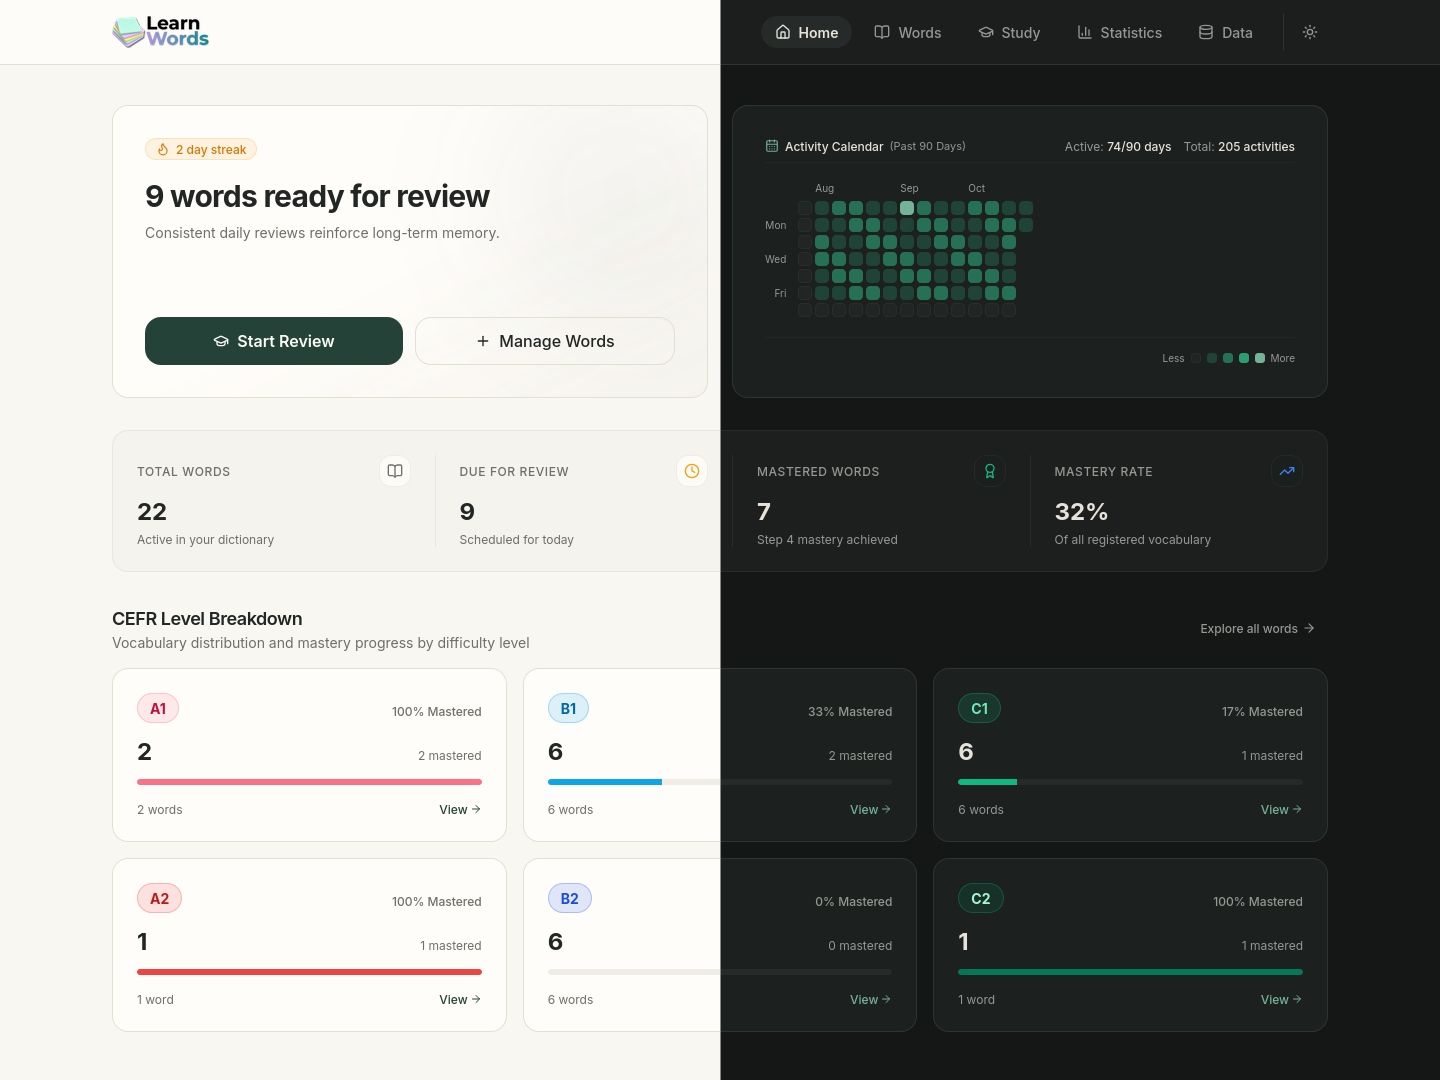
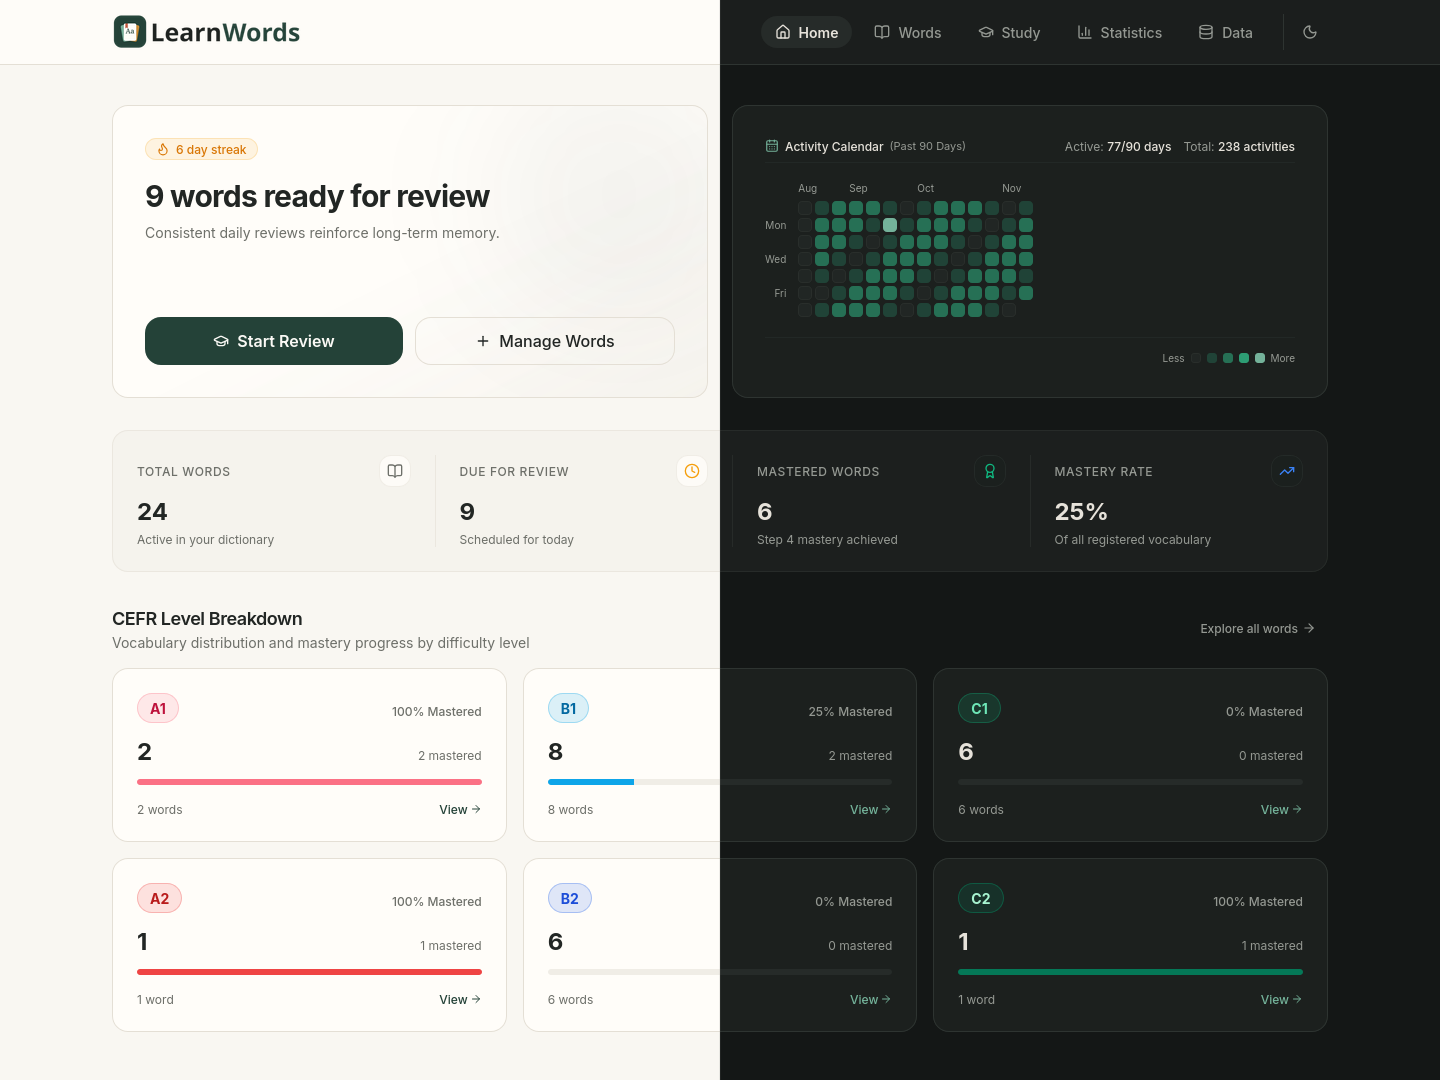
docs(readme): overhaul README with Concept 1B branding, desktop/mobile showcases, and APK guide

diff --git a/README.md b/README.md
@@ -1,89 +1,166 @@
-# LearnWords
+<p align="center">
+  <picture>
+    <source media="(prefers-color-scheme: dark)" srcset="./src/assets/logo-dark.png" width="380">
+    <img src="./src/assets/logo.png" alt="LearnWords Logo" width="380">
+  </picture>
+</p>
 
-LearnWords is a local-first, distraction-free English vocabulary acquisition platform built with spaced repetition system (SRS) algorithms, context-driven sentence translation practice, and cognitive ergonomics.
+<p align="center">
+  A calm, local-first vocabulary learning platform for Desktop and Android, engineered with spaced repetition, contextual sentence translation, and cognitive ergonomics.
+</p>
 
-The platform is designed to provide a calm, tactile, and highly effective learning environment that respects user privacy and data ownership. It operates entirely offline with zero third-party cloud dependencies.
+<p align="center">
+  <a href="https://github.com/bedwen/learnwords"><img src="https://img.shields.io/badge/version-1.0.0-244238.svg?style=flat-square" alt="Version 1.0.0"></a>
+  <a href="https://www.typescriptlang.org/"><img src="https://img.shields.io/badge/TypeScript-5.5-3178C6.svg?style=flat-square&logo=typescript&logoColor=white" alt="TypeScript 5.5"></a>
+  <a href="https://react.dev/"><img src="https://img.shields.io/badge/React-18.3-61DAFB.svg?style=flat-square&logo=react&logoColor=black" alt="React 18.3"></a>
+  <a href="https://expressjs.com/"><img src="https://img.shields.io/badge/Node%20%26%20Express-4.21-339933.svg?style=flat-square&logo=express&logoColor=white" alt="Express 4.21"></a>
+  <a href="https://www.sqlite.org/"><img src="https://img.shields.io/badge/SQLite-WAL-003B57.svg?style=flat-square&logo=sqlite&logoColor=white" alt="SQLite WAL"></a>
+  <a href="https://capacitorjs.com/"><img src="https://img.shields.io/badge/Android-Capacitor%208-119EFF.svg?style=flat-square&logo=capacitor&logoColor=white" alt="Android Capacitor 8"></a>
+  <a href="https://vitest.dev/"><img src="https://img.shields.io/badge/Tests-276%20Passing-10B981.svg?style=flat-square" alt="276 Tests Passing"></a>
+  <a href="./LICENSE"><img src="https://img.shields.io/badge/License-MIT-blue.svg?style=flat-square" alt="License MIT"></a>
+</p>
+
+<p align="center">
+  <a href="#website--desktop-application">Website &amp; Desktop App</a> &nbsp;&bull;&nbsp;
+  <a href="#android-mobile-application">Android Mobile App</a> &nbsp;&bull;&nbsp;
+  <a href="#core-features">Core Features</a> &nbsp;&bull;&nbsp;
+  <a href="#technology-stack">Technology Stack</a> &nbsp;&bull;&nbsp;
+  <a href="#getting-started">Getting Started</a>
+</p>
 
 ---
 
-## Overview Showcase
+## Website & Desktop Application
 
-LearnWords features a dual-theme interface engineered around cognitive ergonomics and reading comfort: **Warm Vellum** (natural book page tone) for daytime clarity and **Nocturnal Study** (deep botanical slate) for low-light focus.
+LearnWords provides a focused, distraction-free study environment tailored for long-term vocabulary acquisition. Operating completely locally with zero external telemetry or cloud dependencies, all persistent data is stored in SQLite using Write-Ahead Logging (WAL) for instant reads and crash resilience.
+
+The user interface is built on two harmonized color palettes: **Warm Vellum** (`#F9F7F2`) for natural, glare-free daytime reading and **Nocturnal Slate** (`#141716`) for comfortable night sessions.
 
 ### Home Dashboard
-The central dashboard provides daily study queues, a 90-day study consistency heatmap, a unified stat ribbon, and a CEFR proficiency breakdown.
+The central dashboard provides daily review queues, a 90-day study consistency heatmap, a unified statistical summary ribbon, and a CEFR proficiency breakdown.
 
 ![Home Dashboard](./imagesforreadme/home_split.png)
 
-### Spaced Repetition Study & Sentence Practice
-Interactive 3D flashcards with tactile card stack depth, keyboard navigation, and bidirectional sentence translation practice.
+### Spaced Repetition Flashcards
+Interactive 3D flashcards with tactile card stack depth, keyboard navigation, and immediate interval feedback.
 
 ![Study Session](./imagesforreadme/study_split.png)
+
+### Vocabulary Folders & Table Management
+Organize vocabulary across colored thematic folders, filter by CEFR level or mastery status, and manage collections with bulk actions.
+
+![Vocabulary Folders](./imagesforreadme/words_folders.png)
+
+![Words Management Table](./imagesforreadme/words_table.png)
+
+### Intuitive Creation Modals
+Streamlined dialogs for organizing custom study collections and inputting vocabulary with contextual example sentences.
+
+![Create Folder](./imagesforreadme/folder_add_modal.png)
+
+![Add Word](./imagesforreadme/word_add_modal.png)
+
+### Learning Statistics
+Longitudinal analytics tracking review accuracy, difficulty distribution, and study persistence across a 90-day window.
+
+![Learning Statistics](./imagesforreadme/statistics.png)
+
+### Data Management & Synchronization
+Import and export vocabulary in standard CSV format, download atomic JSON database snapshots, or synchronize progress across devices.
+
+![Data Management](./imagesforreadme/data_management.png)
+
+---
+
+## Android Mobile Application
+
+LearnWords is available as a standalone, offline-first Android application powered by Capacitor 8. Designed specifically for thumb navigation on the go, it features a locked `100dvh` viewport, a bottom navigation bar, tactile card gestures, and local IndexedDB persistence that operates seamlessly without network connectivity.
+
+### Mobile Showcase
+
+| Home & Activity | 3D Flashcards (Light/Dark) | Sentence Practice | Mobile Word Cards |
+| :---: | :---: | :---: | :---: |
+| <img src="./imagesforreadme/mobile_home.png" width="210" alt="Mobile Home and Activity" /> | <img src="./imagesforreadme/mobile_study_split.png" width="210" alt="Mobile Study 3D Flashcards Split" /> | <img src="./imagesforreadme/mobile_sentence.png" width="210" alt="Mobile Sentence Practice" /> | <img src="./imagesforreadme/mobile_words.png" width="210" alt="Mobile Word Cards" /> |
+
+### Installing the Android APK (GitHub Releases)
+
+Pre-built Android release packages are provided directly on GitHub:
+
+1. Open the [Releases](https://github.com/bedwen/learnwords/releases) page on your Android phone or browser.
+2. Download the latest release asset: `LearnWords-v1.0-release.apk`.
+3. Open the downloaded file on your Android device. If prompted, permit your browser or file manager to *Install unknown apps* for this source.
+4. Tap **Install** to complete the setup. Once installed, LearnWords runs completely standalone and offline.
+
+### Building the APK Locally
+
+To compile and package the Android APK on your development machine:
+
+```bash
+# Build the mobile frontend bundle and assemble the signed release APK
+npm run android:apk
+
+# Alternatively, assemble the debug APK
+npm run android:apk:debug
+```
+
+The resulting binaries are output to:
+- Release: `android/app/build/outputs/apk/release/LearnWords-v1.0-release.apk`
+- Debug: `android/app/build/outputs/apk/debug/LearnWords-v1.0-debug.apk`
+
+### Synchronizing Between Desktop & Android
+
+LearnWords supports two private, local synchronization workflows:
+
+1. **Automatic Local Network (Wi-Fi) Sync**:
+   - Start the desktop server in LAN mode:
+     ```bash
+     npm run dev:lan
+     ```
+   - On your Android device, navigate to **Data** &rarr; **LAN Sync**, enter your desktop computer's LAN IP address (displayed in the server terminal, e.g., `http://192.168.1.100:3001`), and tap **Test Connection & Save**.
+   - The Android app automatically synchronizes review history and vocabulary updates whenever opened on the same home Wi-Fi network.
+
+2. **Offline Smart Sync Bundle (File / Syncthing / USB)**:
+   - Export `learnwords-sync-bundle.json` from **Data Management** on either device.
+   - Transfer the file via Syncthing, local shared storage, or USB cable.
+   - Use **Merge Sync Bundle** on the destination device to non-destructively absorb deltas and merge review histories using Last-Write-Wins (LWW) conflict resolution.
 
 ---
 
 ## Core Features
 
 ### Cognitive Ergonomics & Design System
-- **Warm Vellum & Nocturnal Study Themes:** Purpose-crafted color tokens (#F9F7F2 light / #141716 dark) designed to reduce glare and visual fatigue during prolonged reading sessions.
+- **Warm Vellum & Nocturnal Slate Themes:** Purpose-crafted color tokens (`#F9F7F2` light / `#141716` dark) designed to reduce glare and visual fatigue during prolonged reading sessions.
 - **De-Weaponized SRS Rating Colors:** Replaces stressful high-contrast traffic-light colors with psychologically calming tones: warm terracotta for *Again*, amber ochre for *Hard*, eucalyptus sage for *Good*, and slate cerulean for *Easy*.
-- **Tactile Micro-Geometry:** Organic contours (rounded cards, pill capsules) and dynamic deck depth indicators where background card layers visibly diminish as cards are cleared.
+- **Tactile Card Deck Depth:** Organic contours and visual card stack depth where background layers visibly diminish as cards are reviewed.
 - **Literary Dual-Coding:** Contextual example sentences rendered with serif typography to reinforce memory encoding as literary excerpts rather than sterile UI text.
 
-### Spaced Repetition System (SRS)
-- **Deterministic Scheduling:** Based on proven spaced intervals (1 day, 3 days, 7 days, 14 days, 30 days, 90 days, 180 days, 365 days).
+### Spaced Repetition System (SRS) & Session Summary
+- **Deterministic Scheduling:** Proven interval progression (1 day, 3 days, 7 days, 14 days, 30 days, 60 days, 120 days, 180 days).
 - **Five-Stage Mastery Progression:** Words advance through distinct stages: *New*, *Learning*, *Familiar*, *Strong*, and *Mastered*.
-- **Domain Layer Separation:** Spaced repetition calculations live strictly in the domain logic layer, decoupled from UI rendering components.
+- **Domain Layer Separation:** Spaced repetition scheduling is strictly encapsulated within the domain layer (`learningEngine.ts`), independent of UI components.
+- **Session Completion Summary:** Real-time feedback upon finishing a review queue, displaying session accuracy, total cards reviewed, and rating distribution.
 
-### Bidirectional Sentence Translation Practice
-- **Contextual Recall:** Practice vocabulary in complete sentences rather than isolated words.
+### Decoupled Bidirectional Sentence Translation Practice
+- **Contextual Recall:** Practice words within complete sentences rather than isolated definitions.
 - **Dual Direction Modes:** Freely toggle between `Sentence -> Translation` and `Translation -> Sentence`.
-- **Active Retrieval:** Integrated input field for typing answers before revealing the canonical sentence.
-- **Unified Review State:** Sentence reviews update the same SRS intervals and learning states as flashcard reviews.
+- **Active Retrieval:** Built-in typing area for formulating answers before revealing the canonical sentence.
+- **Decoupled Queue Architecture:** Word flashcard reviews and sentence translation practice maintain independent scheduling intervals, allowing daily sentence exercises without exhausting flashcard queues.
 
-### Vocabulary Organization & Multi-Folder Management
-- **Topic Folders:** Categorize words into custom-colored collections (e.g., Travel, Business, Academic, Idioms).
+### Multi-Folder Organization & Non-Destructive Trash Bin
+- **Thematic Folders:** Categorize words into custom-colored collections (Academic, Business, Travel, Idioms).
 - **Multi-Folder Tagging:** A single word can belong to multiple folders simultaneously.
-- **Advanced Filtering & Search:** Instant search across headwords, definitions, and personal notes, with filtering by CEFR level (A1 to C2) and mastery status.
-- **Batch Operations:** Move, change CEFR levels, or remove multiple words in bulk.
-
-![Vocabulary Folders](./imagesforreadme/words_folders.png)
-
-![Words Management Table](./imagesforreadme/words_table.png)
-
-### Non-Destructive Trash Bin & Safe Restoration
 - **Accidental Deletion Protection:** Deleted words are placed in the Trash Bin rather than permanently purged.
 - **Complete State Preservation:** Restoring words preserves all review logs, interval steps, mastery states, and folder memberships.
 - **Controlled Purge:** Option to restore or permanently delete individual words, or safely empty the trash bin.
-
-### Flexible Creation Modals
-Quickly organize study materials through dedicated creation workflows.
-
-![Create Folder](./imagesforreadme/folder_add_modal.png)
-
-![Add Word](./imagesforreadme/word_add_modal.png)
-
-### In-Depth Learning Statistics
-- **Activity Heatmap:** 13-week (90-day) calendar displaying daily review intensity and persistence.
-- **CEFR Distribution:** Visual breakdown of vocabulary across CEFR difficulty levels (A1, A2, B1, B2, C1, C2).
-- **Retention & Accuracy Metrics:** Total reviews, pass rates, recall accuracy, and recent submission logs.
-
-![Learning Statistics](./imagesforreadme/statistics.png)
-
-### Data Management & Synchronization
-- **CSV Import & Export:** Bulk import words from spreadsheets with automated duplicate detection, and export filtered lists.
-- **Full JSON Backups:** Complete database snapshot backup and restore capability to ensure your learning progress is always safe.
-- **Local Network Sync (Experimental):** Direct LAN peer sync and conflict-free delta sync bundles are implemented to allow local device pairing over Wi-Fi without cloud dependencies. Note: This synchronization feature is currently experimental and has not yet been fully field-tested across physical devices.
-
-![Data Management](./imagesforreadme/data_management.png)
 
 ---
 
 ## Technology Stack
 
 - **Frontend:** React 18, TypeScript, Vite, Tailwind CSS, Lucide Icons
-- **Backend:** Node.js, Express
-- **Database:** SQLite (`better-sqlite3`) in WAL mode for fast, zero-config local persistence
+- **Backend:** Node.js, Express 4
+- **Database:** SQLite via `better-sqlite3` in WAL mode (Desktop) / Native IndexedDB (Android)
+- **Mobile Runtime:** Capacitor 8
 - **Testing & Verification:** Vitest (automated test suite) and automated security audits
 
 ---
@@ -93,6 +170,7 @@ Quickly organize study materials through dedicated creation workflows.
 ### Prerequisites
 - Node.js v18 or later
 - npm v9 or later
+- Modern browser (or Android 8.0+ for mobile APK)
 
 ### Installation
 
@@ -116,21 +194,26 @@ npm run dev
 
 Open your browser at `http://localhost:5173`.
 
+To enable Local Area Network (Wi-Fi) synchronization for mobile devices:
+```bash
+npm run dev:lan
+```
+
 ### Production Build
 
-Compile TypeScript and build optimized assets:
+Compile TypeScript and build optimized assets for desktop:
 ```bash
 npm run build
 ```
 
-Run backend server against built assets:
+Build the standalone mobile bundle:
 ```bash
-npm start
+npm run build:mobile
 ```
 
-### Running Tests
+### Running Tests & Security Audits
 
-Execute the automated test suite:
+Execute the automated test suite (276 tests):
 ```bash
 npm test
 ```
@@ -144,4 +227,4 @@ node .agents/skills/security/scripts/audit.cjs
 
 ## License
 
-This project is licensed under the MIT License.
+This project is licensed under the MIT License. See [LICENSE](./LICENSE) for details.
